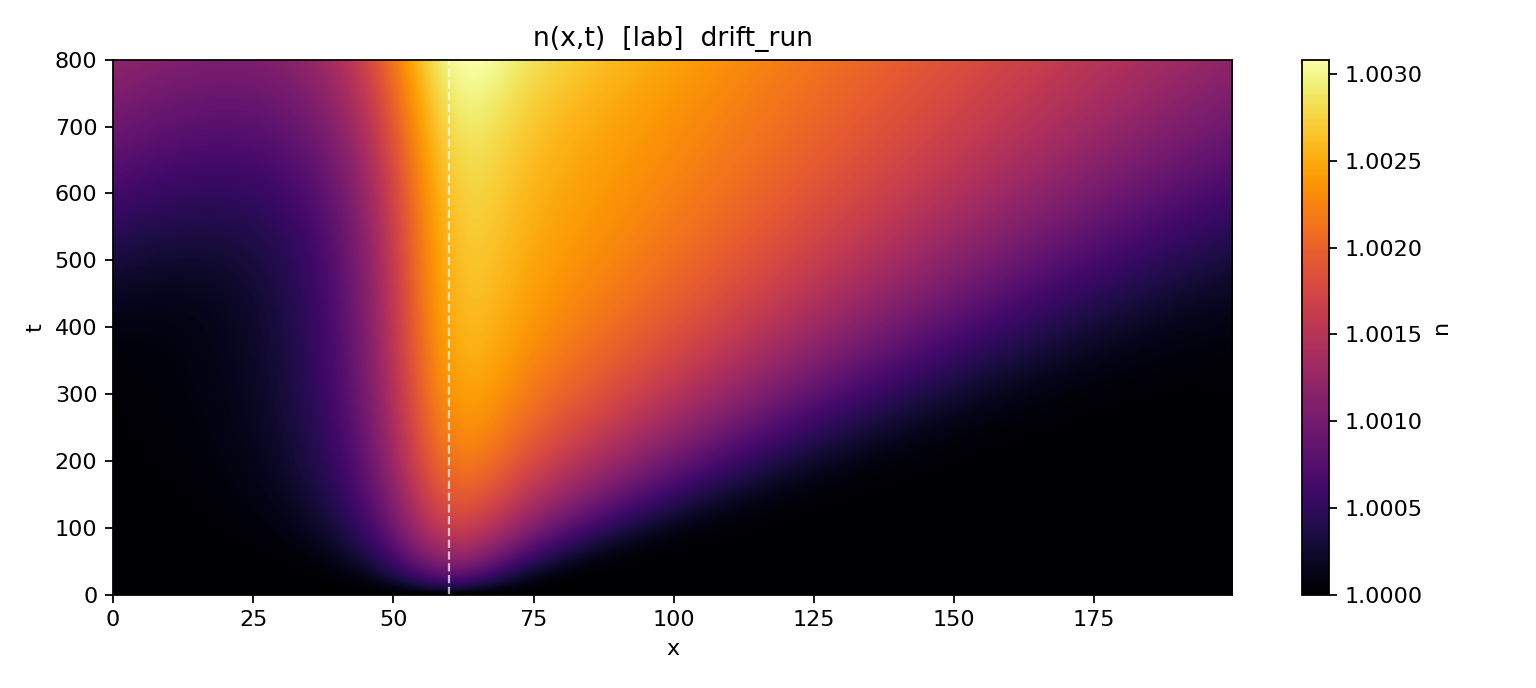
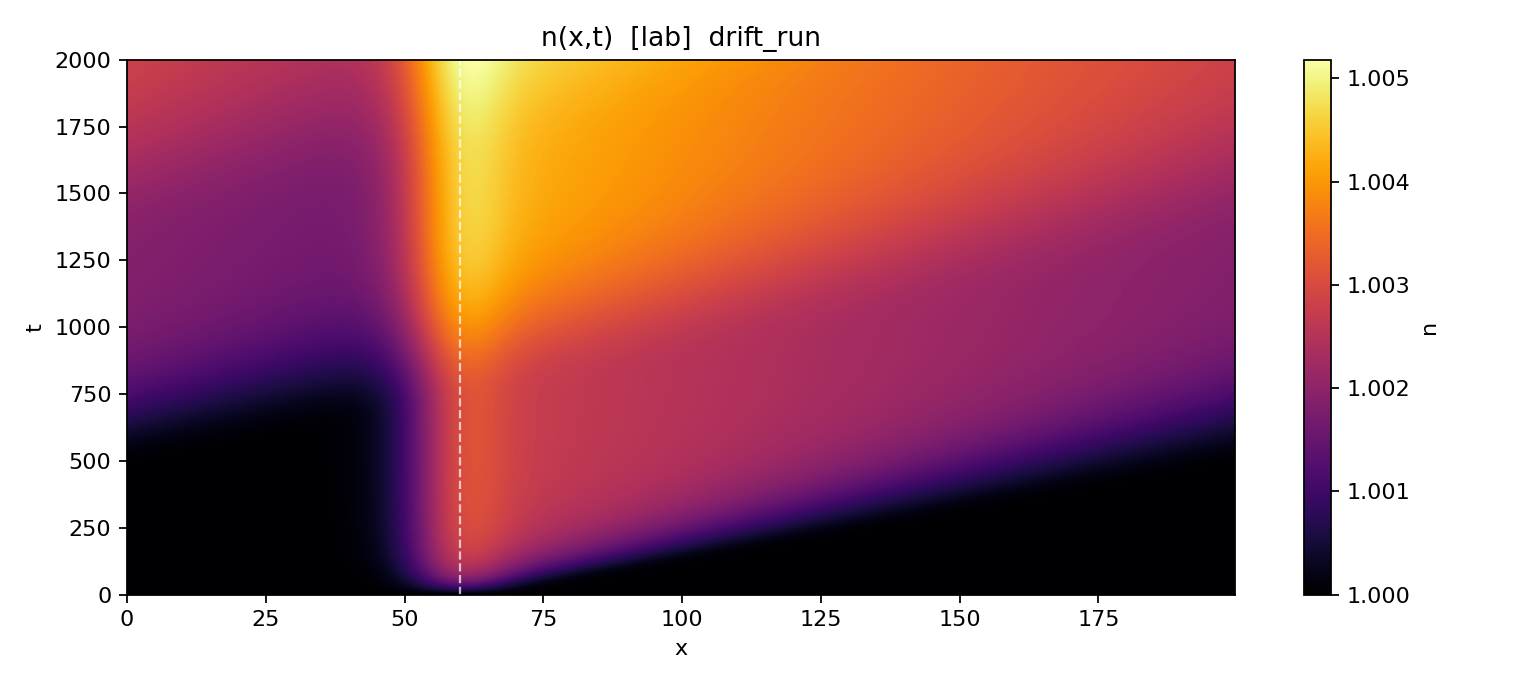
Adjusted the mass injection parameters to see the density fluctions around 10^{-3}

diff --git a/mass injection/mass injection.py b/mass injection/mass injection.py
@@ -20,8 +20,8 @@ class P:
     maintain_drift: str = "field"
     Kp: float = 0.15
 
-    Dn: float = 0.03
-    Dp: float = 0.1#0.06
+    Dn: float = 0.00
+    Dp: float = 0.06
 
     J0: float = 0.004#0.04
     sigma_J: float = 6.0
@@ -34,7 +34,7 @@ class P:
 
     L: float = 200.0
     Nx: int = 512
-    t_final: float = 800.0
+    t_final: float = 2000.0
     n_save: int = 360
     rtol: float = 5e-7
     atol: float = 5e-9
